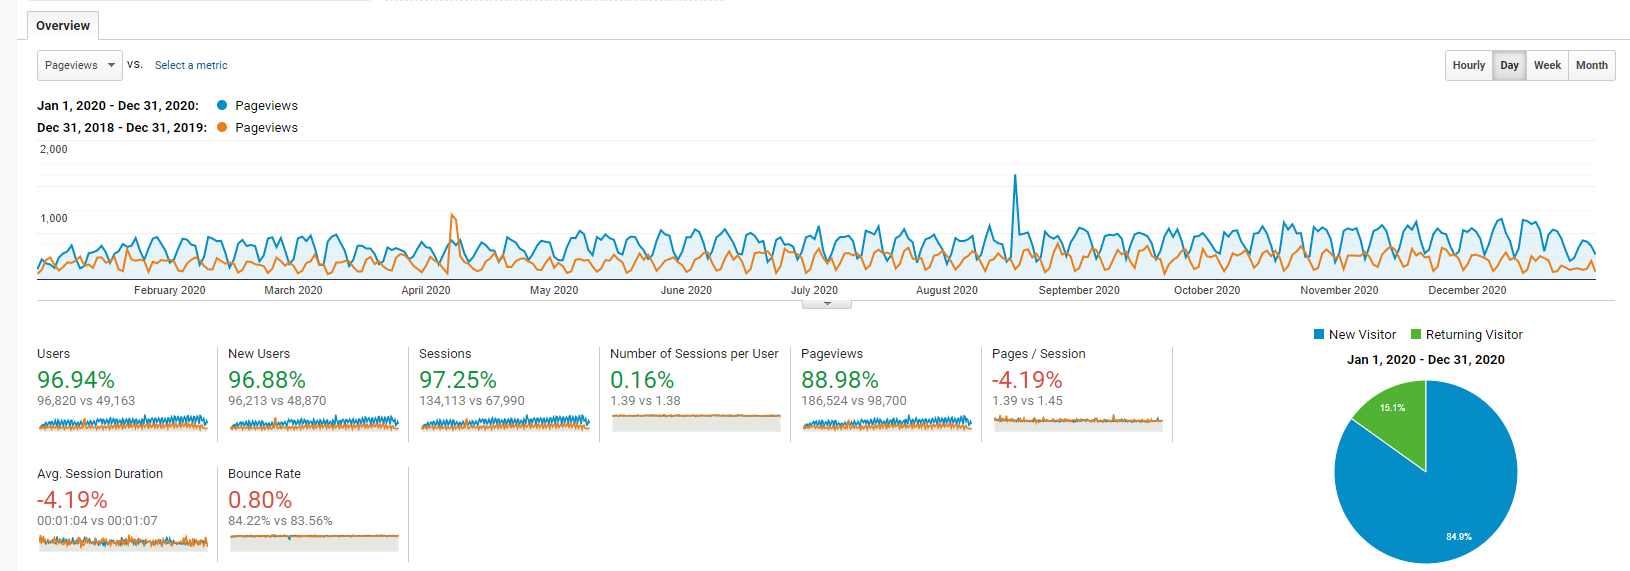
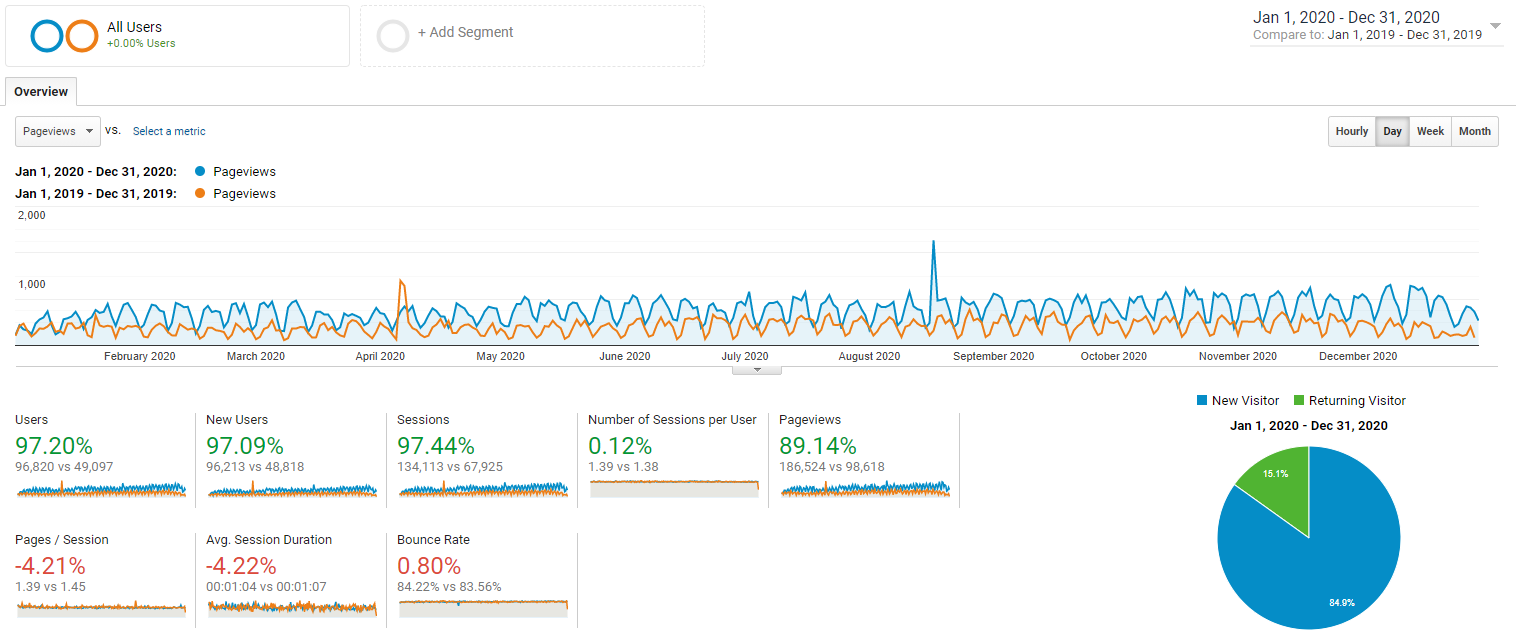
Working on the 'Happy New Year 2021' post.

diff --git a/content/posts/2021/01-01-happy-new-year-2021/_index.md b/content/posts/2021/01-01-happy-new-year-2021/_index.md
@@ -18,10 +18,13 @@ This is the third year in a row in which I have used Google Analytics for statis
 
 ### Summary
 
+This year, I thought it would be interesting to also include the total number of pages on the blog, as counted on Jan 1st of the year. I am only counting human created "pages" and "posts" in this tally, and not the automatically generated large number of "tag" and "category" pages.
+
 <table>
   <thead>
     <tr>
       <th>Year</th>
+      <th>No. Pages (on Jan 1st of that year)</th>
       <th>No. Page Views</th>
       <th>No. Users</th>
     </tr>
@@ -29,63 +32,61 @@ This is the third year in a row in which I have used Google Analytics for statis
   <tbody>
     <tr>
       <td>2017</td>
+      <td></td>
       <td>83k</td>
       <td>41k</td>
     </tr>
     <tr>
       <td>2018</td>
+      <td></td>
       <td>116k</td>
       <td>63k</td>
     </tr>
     <tr>
       <td>2019</td>
+      <td></td>
       <td>99k</td>
       <td>49k</td>
     </tr>
     <tr>
       <td>2020</td>
+      <td></td>
       <td>134k</td>
       <td>97k</td>
     </tr>
   </tbody>
 </table>
 
-{{</* img src="number-of-page-views-2019-2020.png" width="800px" caption="A comparison of the number of page views per week for the 2019 and 2020 years. Image from Google Analytics." */>}}
+{{< img src="number-of-page-views-2019-2020.png" width="800px" caption="A comparison of the number of page views per week for the 2019 and 2020 years. Image from Google Analytics." >}}
 
-{{</* img src="20191231-google-analytics-weekly-users-for-2019.png" width="800px" caption="A comparison of the number of users per week for the 2018 and 2019 years. Image from Google Analytics." */>}}
+{{< img src="number-of-users-2019-2020.png" width="800px" caption="A comparison of the number of users per week for the 2018 and 2019 years. Image from Google Analytics." >}}
 
-A _page view_ is a single view of a page (which can be a returning or new user). A _user_ is a unique person who has visited this website at least once.
+As per standard Google nomenclature, a _page view_ is a single view of a page (which can be a returning or new user). A _user_ is a unique person who has visited this website at least once.
 
 ### Most Popular Pages
 
-Ranked by number of page views:
+The top 6 pages, ranked by number of page views:
 
-{{</* img src="20191231-google-analytics-top-10-pages-2019.png" width="800px" caption="The top 10 most visited pages of 2019. Image from Google Analytics." */>}}
+{{< img src="top-6-pages-2019-2020.png" width="800px" caption="The top 10 most visited pages of 2019. Image from Google Analytics." >}}
 
-Compared to the top 10 pages of 2018:
-
-{{</* img src="20191231-google-analytics-top-10-pages-2018.png" width="800px" caption="The top 10 most visited pages of 2018. Image from Google Analytics." */>}}
-
-For the first time ever, we see Linux-related pages take over the top positions that were held by Altium-related pages for at least the last 5 years. There were no hugely different page categories that entered the top 10 list this year.
+Again, we see the Linux-related serial port and CAN bus pages that shifted to top position in 2019 remain there for 2020. 
 
 ### Acquisition
 
-{{/*% img src="20191231-google-analytics-top-channels-2019.png" width="400px" caption="The top channels of 2019. Image from Google Analytics." %*/}}
+{{% img src="acquisitions-2019-2020.png" width="800px" caption="The top channels of 2020 as a bar graph, compared with 2019. Image from Google Analytics." %}}
+
+{{% img src="top-channels-2019-2020.png" width="400px" caption="The top channels of 2020 as a percentage, compared with 2019. Image from Google Analytics." %}}
 
 ### Most Popular Referrers
 
-{{/*% img src="20191231-google-analytics-top-referrers-2019.png" width="800px" caption="The top referrers of 2019. Image from Google Analytics." %*/}}
+{{% img src="referrals-2020.png" width="800px" caption="The top referrers of 2020. Image from Google Analytics." %}}
 
 ## Goal Completion
 
-Looking back at the goals set at the start of 2019, most of them were fully completed!
+Looking back at the Happy New Year 2020 page the goals were rather light, in fact, only the one! It would of looked really bad if I hadn't completed this!
 
-* <span style="color: green; font-weight: bold;">DONE: </span>Utilize Hugo to it's fullest capabilities. Although the migration from Wordpress to Hugo is complete, I feel like I have not yet explored all of the possibilities that Hugo allows. This includes sitemaps, RSS feeds, automatic thumbnail creation, better shortcodes, e.t.c.
-* <span style="color: orange; font-weight: bold;">PARTIALLY DONE: </span>Find a way to reliably detect dead links as they occur, along with an easy way of fixing them. <span style="color: orange; font-weight: bold;">This was enabled for internal links everytime the site is compiled (using a Hugo shortcode), but is harder to do for external links due to the amount of time/bandwidth required to check all the links.</span>
-* <span style="color: green; font-weight: bold;">DONE: </span>Move all of the [mbedded.ninja GitHub repos](https://github.com/mbedded-ninja/) into [my own personal account](https://github.com/gbmhunter), as there is no real need for a mbedded.ninja "organization" on GitHub, at it just leads to extra work and confusion on where repos are.
-* <span style="color: green; font-weight: bold;">DONE: </span>Remove all the excess images in the [blog repository](https://github.com/gbmhunter/blog/issues). As a result of the Wordpress migration, there are many copies of a single image, each at a slightly different pixel size (I'm assuming they were created as part of a page load speed optimization in Wordpress). These are un-needed as Hugo can resize images at build time to correctly fit the container on the page. These extra images are just using up repo space.
-* <span style="color: green; font-weight: bold;">DONE: </span>And of course, as always, add more content!
+* Integrate more of the calculators at calc.mbedded.ninja into the pages of this blog (blog.mbedded.ninja). <span style="color: green; font-weight: bold;">DONE:</span> _The SEO of the Vue-based SPA was not great. I ended up porting NinjaCalc to Next.js this year, in part because of easier server-side rendering. Many of the calculator pages of NinjaCalc have been integrated into relevant pages on this blog._
 
 ## Plans For This Year
 
-* Integrate more of the calculators at calc.mbedded.ninja into the pages of this blog (blog.mbedded.ninja). `calc.mbedded.ninja` is not getting the exposure I first hoped. It could potentially be because of the SPA's (_Single Page Application_) poor SEO (_Search Engine Optimization_), as it uses the Javascript framework Vue to render everything on the client side. Google's search bots are meant to be able to handle indexing this sort of thing in 2019, but it still may be performing worse in the search rankings than it it was SSR (_Server Side Rendered_).
+* More content! (this is never not a goal)
